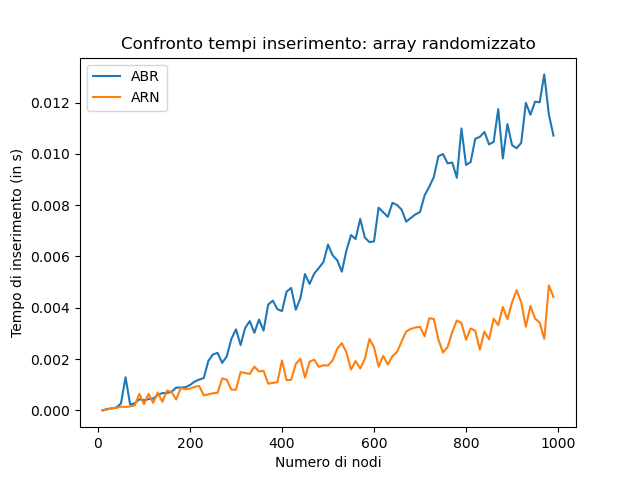
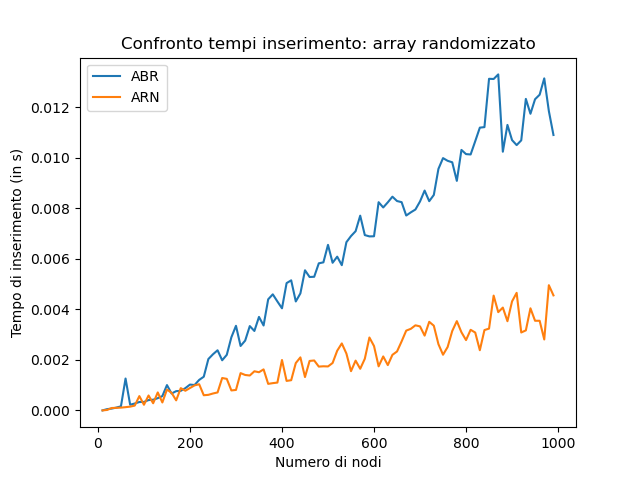
nuovo test con 1000 nodi e 100 esperimenti + clear

diff --git a/src/test.py b/src/test.py
@@ -38,14 +38,14 @@ def exp_moving_averages(array):
     return array
 
 
-def test(shuffle=False, m=100, nn=10):
+def test(shuffle=False, m=100, nn=10):  # 1000 nodi totali, con incrementi da 10
     height = []
     height_rb = []
     ins_time = []
     ins_rb_time = []
     search_time = []
     search_rb_time = []
-    n_means = 100
+    n_means = 100  # numero di test su cui calcolare media
 
     for i in range(1, m):
         t = BST()
@@ -80,6 +80,15 @@ def test(shuffle=False, m=100, nn=10):
         search_rb_time.append(np.mean(search_rb_time_m))
         height.append(np.mean(height_m))
         height_rb.append(np.mean(height_rb_m))
+
+        height_m.clear()
+        height_rb_m.clear()
+        ins_time_m.clear()
+        ins_rb_time_m.clear()
+        search_time_m.clear()
+        search_rb_time_m.clear()
+
+
 
     x = np.arange(1, len(ins_time) + 1) * nn
 
